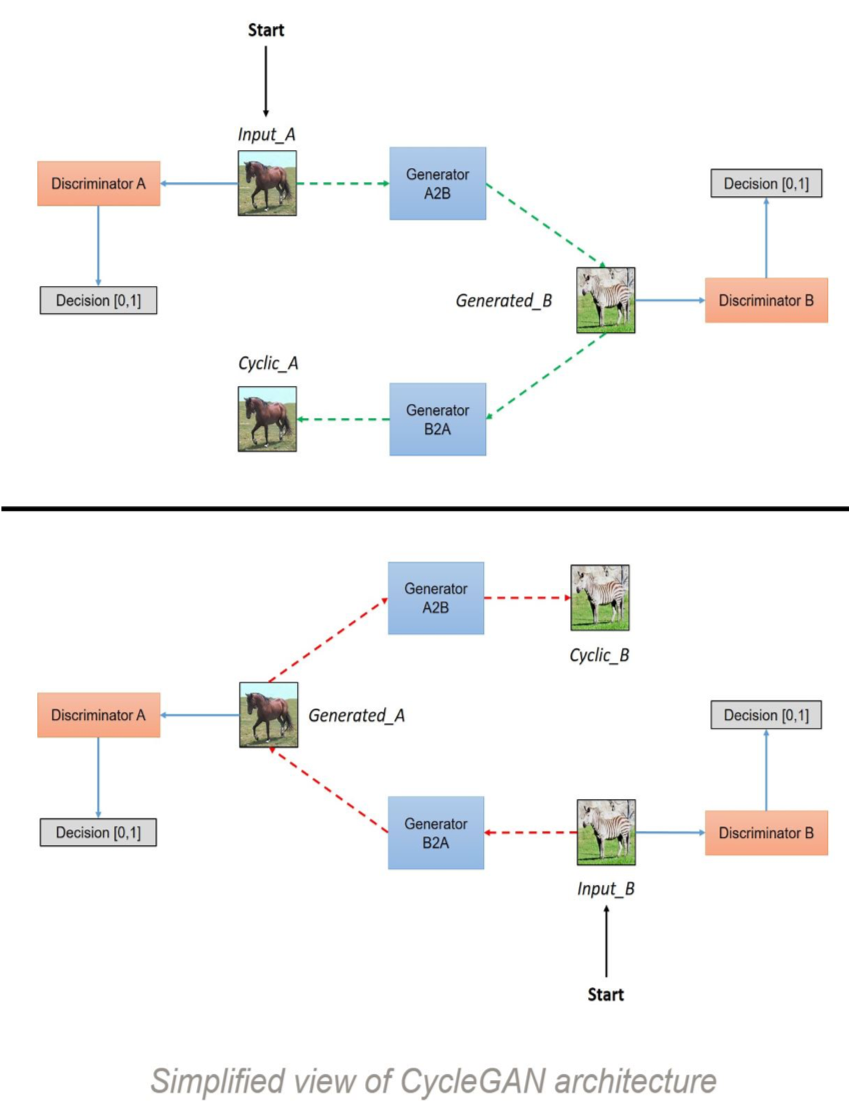
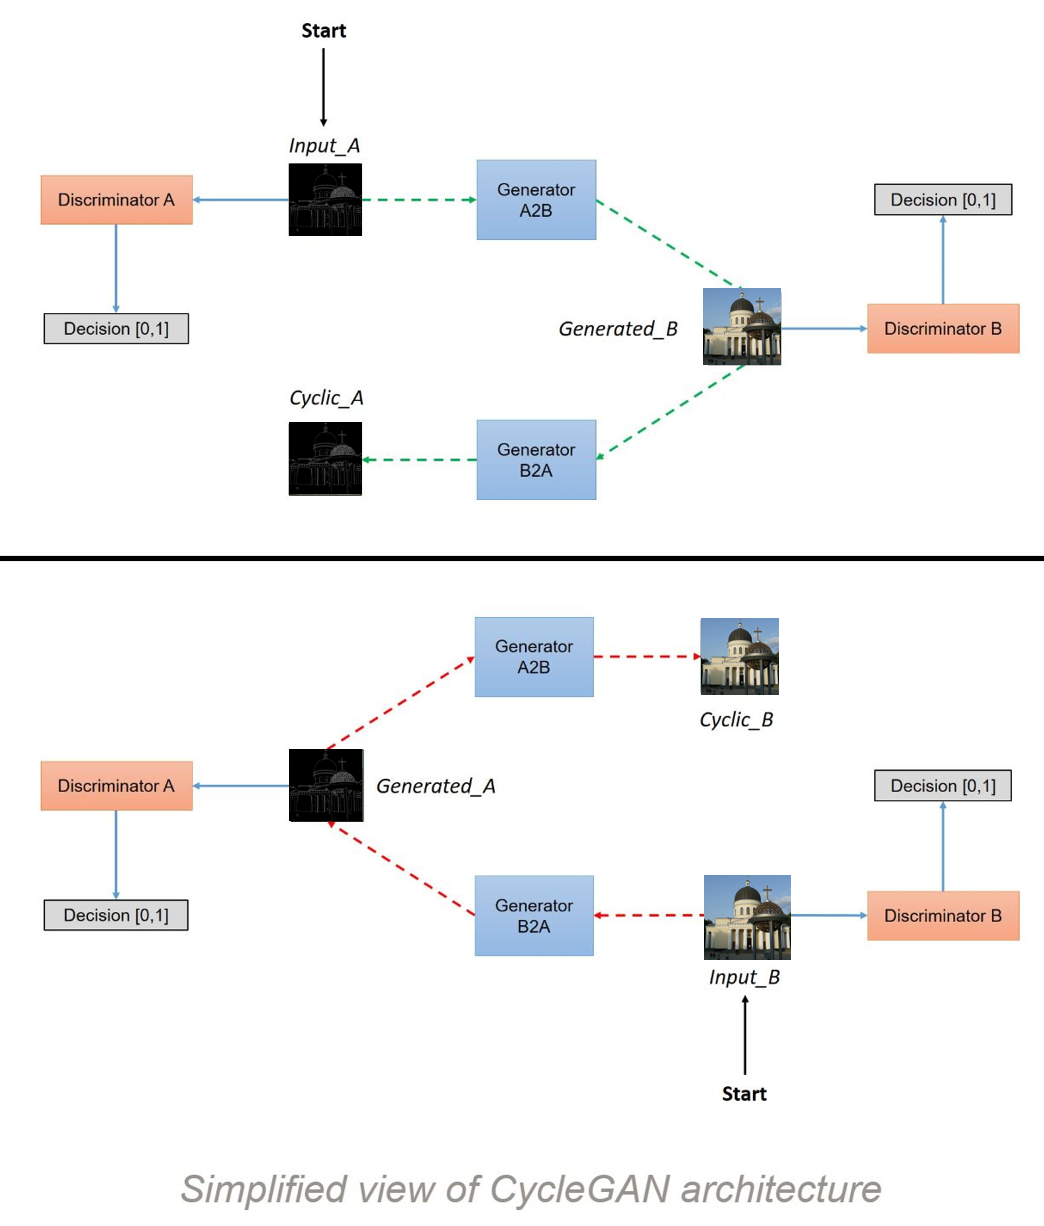
Update README.md

diff --git a/README.md b/README.md
@@ -3,27 +3,32 @@ Landmark Searching Based on Hand-Painted Building Lines
 Google ML Winter Camp 2020  Project 
 
 ## Background
-![1.png](pic/1.png)
+<img src='pic/1.png' width=325>
 
 ## Tech
 We use three models to realize the process of image reconstruction, object detection and image similarity comparison.
 
-![2.png](pic/2.png)
+<img src='pic/2.png' width=325>
 
 ### Image Reconstruction
 Model: `CycleGAN`
 
-![3.png](pic/3.png)
+<img src='pic/3.png' width=325>
 
 ### Detection
 Model: `Retinanet` + `FCOS`
 
-![4.png](pic/4.png)
+<img src='pic/4.png' width=325>
 
 ### Image Retrieval
 Model: reconstruct imgs + original imgs -> `autoencoder`
 
-![5.png](pic/5.png)
+<img src='pic/5.png' width=325>
 
 ## Demo
-![6.png](pic/6.png)
+``` python
+# place models
+cd webapp
+python app.py # demo will run on http://127.0.0.1:5000/
+```
+<img src='pic/6.png' width=325>
